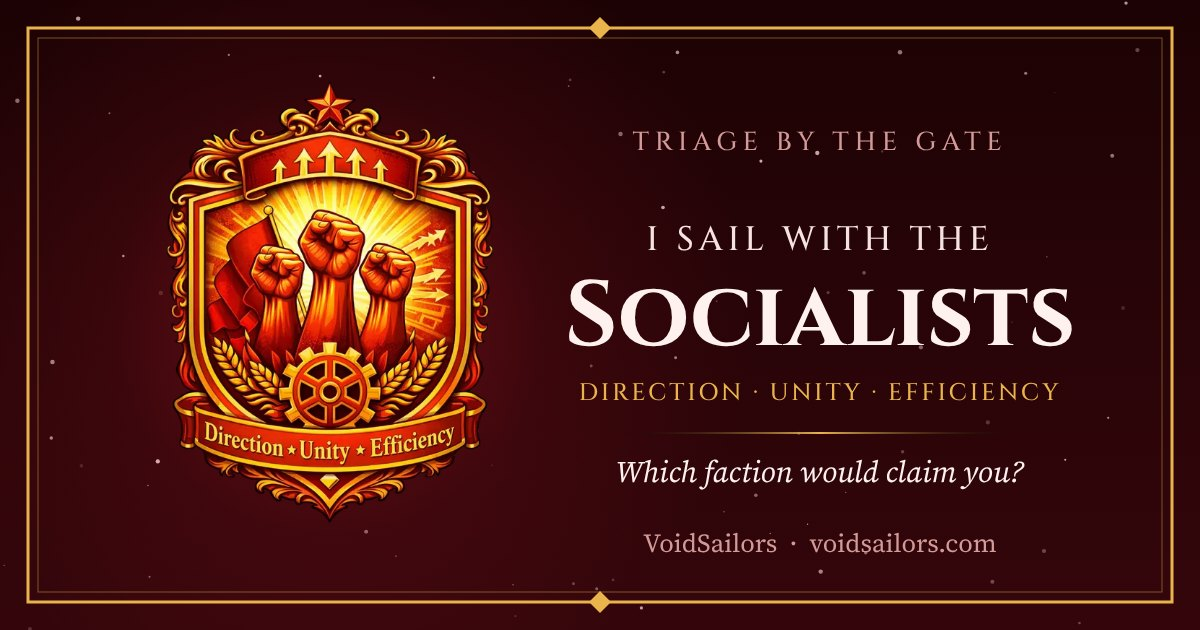
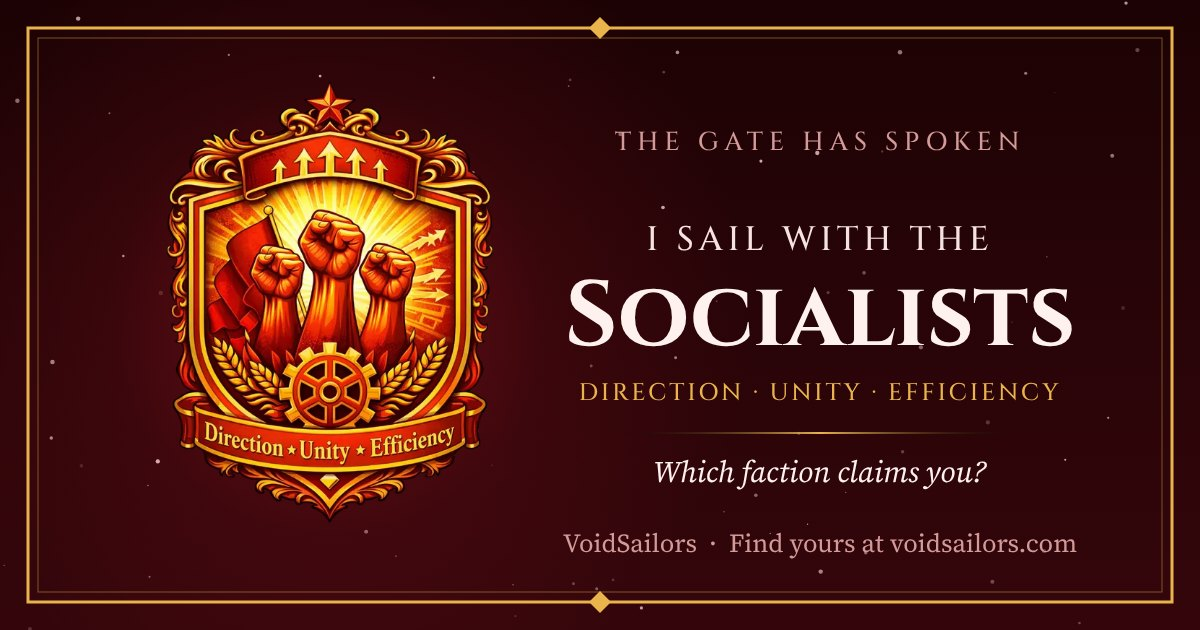
Crest share: sell the identity, "Share Your Faction"
- Verdict leads with Share Your Faction (brass); Keep These Colors second.
- Share window: "You sail with the <Faction>" / Share Your Faction /
  Share with Friends; card reads The Gate Has Spoken ... Which faction
  claims you? Find yours at voidsailors.com.
- Caption and link pages speak to the friend who opens the link.

Claude-Session: https://claude.ai/code/session_01Dy5XS2SRc3qTAWomr416si

Changed region(s): [[0.4933, 0.7238, 0.8633, 0.7841], [0.4625, 0.8444, 0.8942, 0.8746], [0.5242, 0.2111, 0.8633, 0.2413]]

diff --git a/gate.html b/gate.html
@@ -134,8 +134,8 @@
                 </div>
                 <p class="verdict__creed"></p>
                 <div class="btn-row">
-                    <button class="btn btn--primary" type="button" data-action="colors">Keep These Colors</button>
-                    <button class="btn btn--ghost" type="button" data-action="share">Share Crest Card</button>
+                    <button class="btn btn--primary" type="button" data-action="share">Share Your Faction</button>
+                    <button class="btn btn--ghost" type="button" data-action="colors">Keep These Colors</button>
                     <button class="btn btn--ghost" type="button" data-action="again">Walk Through Again</button>
                 </div>
                 <p class="muted" style="margin-top:var(--s5)"><a href="index.html#crew" data-crew-open>Join the crew</a> to hear when the book launches.</p>
@@ -145,8 +145,9 @@
         <!-- 5. Share the crest: a picture sized for stories or feeds, and a link that previews as the faction's card. -->
         <dialog class="trial share-pop" id="share-pop" aria-labelledby="share-pop-title">
             <button class="icon-btn trial__close" type="button" data-close aria-label="Close"><svg viewBox="0 0 24 24" fill="none" stroke="currentColor" stroke-width="2" stroke-linecap="round" aria-hidden="true"><path d="M6 6l12 12M18 6L6 18"/></svg></button>
-            <p class="eyebrow">Share Your Crest</p>
-            <h2 class="trial__title" id="share-pop-title">Fly Your Colors</h2>
+            <p class="eyebrow share-pop__who">The Gate has spoken</p>
+            <h2 class="trial__title" id="share-pop-title">Share Your Faction</h2>
+            <p class="trial__rule">Show your friends where you stand, then dare them to face the Gate.</p>
             <div class="share-size" role="radiogroup" aria-label="Picture shape">
                 <button type="button" role="radio" aria-checked="true" data-size="story">Story <small>9:16</small></button>
                 <button type="button" role="radio" aria-checked="false" data-size="post">Post <small>4:5</small></button>
@@ -154,10 +155,10 @@
             <p class="share-pop__fit" aria-live="polite">For Instagram, TikTok and Facebook Stories</p>
             <div class="share-preview"><img alt="" width="1080" height="1920"></div>
             <div class="btn-row trial__actions">
-                <button class="btn btn--primary" type="button" data-share="picture" hidden>Share Picture</button>
+                <button class="btn btn--primary" type="button" data-share="picture" hidden>Share with Friends</button>
                 <button class="btn btn--ghost" type="button" data-share="save">Save Picture</button>
             </div>
-            <p class="crew-pop__or">Or post a link</p>
+            <p class="crew-pop__or">Or send a link</p>
             <ul class="round-socials share-links">
                     <li><a data-net="x" href="/gate.html" target="_blank" rel="noopener" aria-label="Share on X" title="X"><svg viewBox="0 0 24 24" aria-hidden="true"><path d="M18.901 1.153h3.68l-8.04 9.19L24 22.846h-7.406l-5.8-7.584-6.638 7.584H.474l8.6-9.83L0 1.154h7.594l5.243 6.932ZM17.61 20.644h2.039L6.486 3.24H4.298Z"/></svg></a></li>
                     <li><a data-net="facebook" href="/gate.html" target="_blank" rel="noopener" aria-label="Share on Facebook" title="Facebook"><svg viewBox="0 0 24 24" aria-hidden="true"><path d="M9.101 23.691v-7.98H6.627v-3.667h2.474v-1.58c0-4.085 1.848-5.978 5.858-5.978.401 0 .955.042 1.468.103a8.68 8.68 0 0 1 1.141.195v3.325a8.623 8.623 0 0 0-.653-.036 26.805 26.805 0 0 0-.733-.009c-.707 0-1.259.096-1.675.309a1.686 1.686 0 0 0-.679.622c-.258.42-.374.995-.374 1.752v1.297h3.919l-.386 2.103-.287 1.564h-3.246v8.245C19.396 23.238 24 18.179 24 12.044c0-6.627-5.373-12-12-12s-12 5.373-12 12c0 5.628 3.874 10.35 9.101 11.647Z"/></svg></a></li>

diff --git a/crest/socialists.html b/crest/socialists.html
@@ -4,7 +4,7 @@
     <meta charset="UTF-8">
     <meta name="viewport" content="width=device-width, initial-scale=1">
     <title>I Sail with the Socialists | VoidSailors</title>
-    <meta name="description" content="The Gate has spoken: this sailor flies with the Socialists. Seven questions, four factions. Which one would claim you? VoidSailors, a GameLit novel by E. J. Perry.">
+    <meta name="description" content="Your friend sails with the Socialists. Seven questions decide which faction claims you. VoidSailors, a GameLit novel by E. J. Perry.">
     <meta name="author" content="E. J. Perry">
     <meta name="robots" content="noindex, follow">
     <meta name="theme-color" content="#0b0f1a">
@@ -14,7 +14,7 @@
     <meta property="og:type" content="website">
     <meta property="og:site_name" content="VoidSailors">
     <meta property="og:title" content="I sail with the Socialists">
-    <meta property="og:description" content="The Gate has spoken: this sailor flies with the Socialists. Seven questions, four factions. Which one would claim you? VoidSailors, a GameLit novel by E. J. Perry.">
+    <meta property="og:description" content="Your friend sails with the Socialists. Seven questions decide which faction claims you. VoidSailors, a GameLit novel by E. J. Perry.">
     <meta property="og:url" content="https://voidsailors.com/crest/socialists">
     <meta property="og:image" content="https://voidsailors.com/assets/img/share/socialists-link.jpg">
     <meta property="og:image:type" content="image/jpeg">
@@ -23,7 +23,7 @@
     <meta property="og:image:alt" content="The Socialists crest card: I sail with the Socialists. VoidSailors by E. J. Perry">
     <meta name="twitter:card" content="summary_large_image">
     <meta name="twitter:title" content="I sail with the Socialists">
-    <meta name="twitter:description" content="The Gate has spoken: this sailor flies with the Socialists. Seven questions, four factions. Which one would claim you? VoidSailors, a GameLit novel by E. J. Perry.">
+    <meta name="twitter:description" content="Your friend sails with the Socialists. Seven questions decide which faction claims you. VoidSailors, a GameLit novel by E. J. Perry.">
     <meta name="twitter:image" content="https://voidsailors.com/assets/img/share/socialists-link.jpg">
 
     <link rel="icon" href="/assets/img/web/favicon-32.png" type="image/png" sizes="32x32">
@@ -93,13 +93,13 @@
             <section class="verdict crest-landing">
                 <p class="eyebrow">The Gate has spoken</p>
                 <div class="verdict__card">
-                    <span class="who">A fellow sailor</span>
+                    <span class="who">Your friend</span>
                     <img class="crest" src="/assets/img/web/crest-socialists-480.webp" width="240" height="360" alt="Socialists crest">
                     <span class="name">Socialists</span>
                     <span class="motto">Direction · Unity · Efficiency</span>
                 </div>
-                <h1 class="gate__line">Which faction would claim you?</h1>
-                <p class="measure center">Seven questions decide it. Answer them, and learn which of the four crews would take you aboard.</p>
+                <h1 class="gate__line">Which faction claims you?</h1>
+                <p class="measure center">Seven questions decide where you stand. Answer them, and learn which crew would take you aboard.</p>
                 <div class="btn-row">
                     <a class="btn btn--primary" href="/gate.html">Find Your Faction</a>
                     <a class="btn btn--ghost" href="/book.html">Discover the Book</a>

diff --git a/crest/pirates.html b/crest/pirates.html
@@ -4,7 +4,7 @@
     <meta charset="UTF-8">
     <meta name="viewport" content="width=device-width, initial-scale=1">
     <title>I Sail with the Pirates | VoidSailors</title>
-    <meta name="description" content="The Gate has spoken: this sailor flies with the Pirates. Seven questions, four factions. Which one would claim you? VoidSailors, a GameLit novel by E. J. Perry.">
+    <meta name="description" content="Your friend sails with the Pirates. Seven questions decide which faction claims you. VoidSailors, a GameLit novel by E. J. Perry.">
     <meta name="author" content="E. J. Perry">
     <meta name="robots" content="noindex, follow">
     <meta name="theme-color" content="#0b0f1a">
@@ -14,7 +14,7 @@
     <meta property="og:type" content="website">
     <meta property="og:site_name" content="VoidSailors">
     <meta property="og:title" content="I sail with the Pirates">
-    <meta property="og:description" content="The Gate has spoken: this sailor flies with the Pirates. Seven questions, four factions. Which one would claim you? VoidSailors, a GameLit novel by E. J. Perry.">
+    <meta property="og:description" content="Your friend sails with the Pirates. Seven questions decide which faction claims you. VoidSailors, a GameLit novel by E. J. Perry.">
     <meta property="og:url" content="https://voidsailors.com/crest/pirates">
     <meta property="og:image" content="https://voidsailors.com/assets/img/share/pirates-link.jpg">
     <meta property="og:image:type" content="image/jpeg">
@@ -23,7 +23,7 @@
     <meta property="og:image:alt" content="The Pirates crest card: I sail with the Pirates. VoidSailors by E. J. Perry">
     <meta name="twitter:card" content="summary_large_image">
     <meta name="twitter:title" content="I sail with the Pirates">
-    <meta name="twitter:description" content="The Gate has spoken: this sailor flies with the Pirates. Seven questions, four factions. Which one would claim you? VoidSailors, a GameLit novel by E. J. Perry.">
+    <meta name="twitter:description" content="Your friend sails with the Pirates. Seven questions decide which faction claims you. VoidSailors, a GameLit novel by E. J. Perry.">
     <meta name="twitter:image" content="https://voidsailors.com/assets/img/share/pirates-link.jpg">
 
     <link rel="icon" href="/assets/img/web/favicon-32.png" type="image/png" sizes="32x32">
@@ -93,13 +93,13 @@
             <section class="verdict crest-landing">
                 <p class="eyebrow">The Gate has spoken</p>
                 <div class="verdict__card">
-                    <span class="who">A fellow sailor</span>
+                    <span class="who">Your friend</span>
                     <img class="crest" src="/assets/img/web/crest-pirates-480.webp" width="240" height="360" alt="Pirates crest">
                     <span class="name">Pirates</span>
                     <span class="motto">Independence · Freedom</span>
                 </div>
-                <h1 class="gate__line">Which faction would claim you?</h1>
-                <p class="measure center">Seven questions decide it. Answer them, and learn which of the four crews would take you aboard.</p>
+                <h1 class="gate__line">Which faction claims you?</h1>
+                <p class="measure center">Seven questions decide where you stand. Answer them, and learn which crew would take you aboard.</p>
                 <div class="btn-row">
                     <a class="btn btn--primary" href="/gate.html">Find Your Faction</a>
                     <a class="btn btn--ghost" href="/book.html">Discover the Book</a>

diff --git a/crest/nomads.html b/crest/nomads.html
@@ -4,7 +4,7 @@
     <meta charset="UTF-8">
     <meta name="viewport" content="width=device-width, initial-scale=1">
     <title>I Sail with the Nomads | VoidSailors</title>
-    <meta name="description" content="The Gate has spoken: this sailor flies with the Nomads. Seven questions, four factions. Which one would claim you? VoidSailors, a GameLit novel by E. J. Perry.">
+    <meta name="description" content="Your friend sails with the Nomads. Seven questions decide which faction claims you. VoidSailors, a GameLit novel by E. J. Perry.">
     <meta name="author" content="E. J. Perry">
     <meta name="robots" content="noindex, follow">
     <meta name="theme-color" content="#0b0f1a">
@@ -14,7 +14,7 @@
     <meta property="og:type" content="website">
     <meta property="og:site_name" content="VoidSailors">
     <meta property="og:title" content="I sail with the Nomads">
-    <meta property="og:description" content="The Gate has spoken: this sailor flies with the Nomads. Seven questions, four factions. Which one would claim you? VoidSailors, a GameLit novel by E. J. Perry.">
+    <meta property="og:description" content="Your friend sails with the Nomads. Seven questions decide which faction claims you. VoidSailors, a GameLit novel by E. J. Perry.">
     <meta property="og:url" content="https://voidsailors.com/crest/nomads">
     <meta property="og:image" content="https://voidsailors.com/assets/img/share/nomads-link.jpg">
     <meta property="og:image:type" content="image/jpeg">
@@ -23,7 +23,7 @@
     <meta property="og:image:alt" content="The Nomads crest card: I sail with the Nomads. VoidSailors by E. J. Perry">
     <meta name="twitter:card" content="summary_large_image">
     <meta name="twitter:title" content="I sail with the Nomads">
-    <meta name="twitter:description" content="The Gate has spoken: this sailor flies with the Nomads. Seven questions, four factions. Which one would claim you? VoidSailors, a GameLit novel by E. J. Perry.">
+    <meta name="twitter:description" content="Your friend sails with the Nomads. Seven questions decide which faction claims you. VoidSailors, a GameLit novel by E. J. Perry.">
     <meta name="twitter:image" content="https://voidsailors.com/assets/img/share/nomads-link.jpg">
 
     <link rel="icon" href="/assets/img/web/favicon-32.png" type="image/png" sizes="32x32">
@@ -93,13 +93,13 @@
             <section class="verdict crest-landing">
                 <p class="eyebrow">The Gate has spoken</p>
                 <div class="verdict__card">
-                    <span class="who">A fellow sailor</span>
+                    <span class="who">Your friend</span>
                     <img class="crest" src="/assets/img/web/crest-nomads-480.webp" width="240" height="360" alt="Nomads crest">
                     <span class="name">Nomads</span>
                     <span class="motto">Every man for himself</span>
                 </div>
-                <h1 class="gate__line">Which faction would claim you?</h1>
-                <p class="measure center">Seven questions decide it. Answer them, and learn which of the four crews would take you aboard.</p>
+                <h1 class="gate__line">Which faction claims you?</h1>
+                <p class="measure center">Seven questions decide where you stand. Answer them, and learn which crew would take you aboard.</p>
                 <div class="btn-row">
                     <a class="btn btn--primary" href="/gate.html">Find Your Faction</a>
                     <a class="btn btn--ghost" href="/book.html">Discover the Book</a>

diff --git a/assets/js/crest-card.js b/assets/js/crest-card.js
@@ -27,7 +27,7 @@
   };
 
   const SIZES = { story: [1080, 1920], post: [1080, 1350], pin: [1000, 1500], link: [1200, 630] };
-  const CTA = "Which faction would claim you?";
+  const CTA = "Which faction claims you?";
   const DISPLAY = "Cinzel, Georgia, serif";
   const TEXT = "'Source Serif 4', Georgia, serif";
   const MARK = "'Bluu Next Titling', Cinzel, Georgia, serif";
@@ -125,13 +125,13 @@
       const ch = 520, cw = ch / 1.5;
       g.drawImage(crest, 330 - cw / 2, (H - ch) / 2, cw, ch);
       const x = 820, max = 620;
-      line(g, "TRIAGE BY THE GATE", x, 150, { size: 26, weight: 500, family: DISPLAY, color: c.dim, spacing: 0.22, max });
+      line(g, "THE GATE HAS SPOKEN", x, 150, { size: 26, weight: 500, family: DISPLAY, color: c.dim, spacing: 0.22, max });
       line(g, "I SAIL WITH THE", x, 250, { size: 34, weight: 500, family: DISPLAY, color: c.mist, spacing: 0.14, max });
       line(g, f.name, x, 345, { size: 92, weight: 700, family: DISPLAY, color: c.heading, max });
       line(g, f.motto.toUpperCase(), x, 400, { size: 24, weight: 500, family: DISPLAY, color: c.brass, spacing: 0.12, max });
       rule(g, x, 432, 200, c);
       line(g, CTA, x, 482, { size: 30, style: "italic", family: TEXT, color: c.heading, max });
-      line(g, "VoidSailors  ·  voidsailors.com", x, 552, { size: 26, family: TEXT, color: c.dim, max });
+      line(g, "VoidSailors  ·  Find yours at voidsailors.com", x, 552, { size: 26, family: TEXT, color: c.dim, max });
       return canvas;
     }
 
@@ -139,7 +139,7 @@
     const [top, ch] = L.crest, cw = ch / 1.5, max = W - L.inset * 2 - 80;
     backdrop(g, W, H, c, faction, [W / 2, top + ch * 0.45, ch * 0.75]);
     frame(g, W, H, c, L.inset);
-    line(g, "TRIAGE BY THE GATE", W / 2, L.label, { size: format === "story" ? 34 : 28, weight: 500, family: DISPLAY, color: c.dim, spacing: 0.22, max });
+    line(g, "THE GATE HAS SPOKEN", W / 2, L.label, { size: format === "story" ? 34 : 28, weight: 500, family: DISPLAY, color: c.dim, spacing: 0.22, max });
     if (who) line(g, who, W / 2, L.who, { size: format === "story" ? 64 : 54, style: "italic", family: TEXT, color: c.heading, max });
     g.drawImage(crest, (W - cw) / 2, who ? top : top - 30, cw, ch);
     line(g, who ? "SAILS WITH THE" : "I SAIL WITH THE", W / 2, L.sails, { size: format === "story" ? 40 : 34, weight: 500, family: DISPLAY, color: c.mist, spacing: 0.16, max });
@@ -149,7 +149,7 @@
     line(g, CTA, W / 2, L.cta, { size: format === "story" ? 42 : 36, style: "italic", family: TEXT, color: c.heading, max });
     if (L.logo && logo) g.drawImage(logo, W / 2 - 22, L.logo, 44, 44);
     line(g, "VoidSailors", W / 2, L.mark, { size: format === "story" ? 56 : 46, family: MARK, color: c.heading, max });
-    line(g, "voidsailors.com", W / 2, L.url, { size: format === "story" ? 32 : 28, family: TEXT, color: c.brass, spacing: 0.04, max });
+    line(g, "Find yours at voidsailors.com", W / 2, L.url, { size: format === "story" ? 32 : 28, family: TEXT, color: c.brass, spacing: 0.04, max });
     return canvas;
   }
 

diff --git a/crest/cats.html b/crest/cats.html
@@ -93,13 +93,13 @@
             <section class="verdict crest-landing">
                 <p class="eyebrow">The Gate has spoken</p>
                 <div class="verdict__card">
-                    <span class="who">A fellow sailor</span>
+                    <span class="who">Your friend</span>
                     <img class="crest" src="/assets/img/web/crest-cats-480.webp" width="240" height="360" alt="C.A.T.s crest">
                     <span class="name">C.A.T.s</span>
                     <span class="motto">Corporate Alliance of Trade</span>
                 </div>
-                <h1 class="gate__line">Which faction would claim you?</h1>
-                <p class="measure center">Seven questions decide it. Answer them, and learn which of the four crews would take you aboard.</p>
+                <h1 class="gate__line">Which faction claims you?</h1>
+                <p class="measure center">Seven questions decide where you stand. Answer them, and learn which crew would take you aboard.</p>
                 <div class="btn-row">
                     <a class="btn btn--primary" href="/gate.html">Find Your Faction</a>
                     <a class="btn btn--ghost" href="/book.html">Discover the Book</a>

diff --git a/assets/js/gate.js b/assets/js/gate.js
@@ -224,12 +224,12 @@
   if (pictureBtn && shareable) {
     pictureBtn.hidden = false;
     const tip = pop.querySelector(".share-pop__tip");
-    if (tip) tip.textContent = "Instagram and TikTok take pictures rather than links. Tap Share Picture and choose the app.";
+    if (tip) tip.textContent = "Instagram and TikTok take pictures rather than links. Tap Share with Friends and pick the app.";
   } else if (saveBtn) saveBtn.className = "btn btn--primary";
 
   const fileName = () => `voidsailors-${result}-${size}.png`;
   const crestLink = () => `${SITE}/crest/${result}`;
-  const caption = () => `I sail with the ${FACTIONS[result].name}. Which faction would claim you?`;
+  const caption = () => `I sail with the ${FACTIONS[result].name}. Which faction claims you?`;
 
   // Start drawing both shapes as soon as the verdict is in, so the share sheet opens on the first tap.
   function prepareCards() {
@@ -284,6 +284,7 @@
     if (!pop || typeof pop.showModal !== "function") return saveFallback();
     if (!cards.story) prepareCards();
     setLinks();
+    pop.querySelector(".share-pop__who").textContent = `You sail with the ${FACTIONS[result].name}`;
     showSize(size);
     status("");
     pop.showModal();
